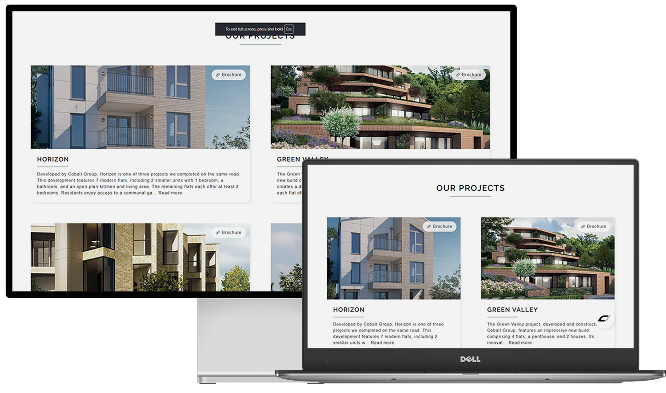
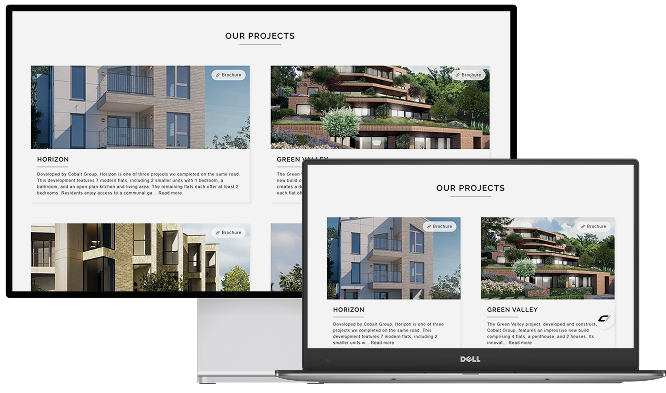
Modals are fully responsive.

diff --git a/app/_context/ModalContext.tsx b/app/_context/ModalContext.tsx
@@ -167,13 +167,13 @@ function ThePondModal() {
         <h3>THE WEBSITES CORE FEATURES:</h3>
         <div className="mt-6 flex flex-col gap-20 text-left">
           {/* First section */}
-          <div className="flex gap-20 items-center justify-center">
+          <div className="flex-col gap-6 flex lg:flex-row lg:gap-20 items-center justify-center">
             <img
               src={firstImg}
               alt="Desktop and laptop view of the apps dashboard."
-              className="w-full max-w-[666px]"
+              className="w-full lg:w-4/5 max-w-[666px]"
             />
-            <div>
+            <div className="w-fit max-w-120 lg:max-w-max lg:w-75 shrink-0">
               <p className="mb-6">
                 When users first enter the app, the first thing they see is the
                 their dashboard, which features their:
@@ -188,13 +188,13 @@ function ThePondModal() {
             </div>
           </div>
           {/* Second section */}
-          <div className="flex flex-row-reverse gap-20 items-center justify-center">
+          <div className="flex-col gap-6 flex lg:flex-row-reverse lg:gap-20 items-center justify-center">
             <img
               src={secondImg}
               alt="Laptop and mobile view of the edit a post, and new habit modals."
-              className="w-full max-w-[600px]"
+              className="w-full lg:w-4/5 max-w-[600px]"
             />
-            <p className="text-right">
+            <p className="text-right w-fit max-w-120 lg:max-w-max lg:min-w-77.5">
               Users can create habits, posts and edit content through various
               modals.
               <br />
@@ -205,13 +205,13 @@ function ThePondModal() {
             </p>
           </div>
           {/* Third section */}
-          <div className="flex gap-20 items-center justify-center">
+          <div className="flex-col gap-6 flex lg:flex-row lg:gap-20 items-center justify-center">
             <img
               src={thirdImg}
               alt="Tablet and mobile view of the explore page displaying users milestone posts."
-              className="w-full max-w-[404px]"
+              className="w-full lg:w-4/5 max-w-[404px]"
             />
-            <div>
+            <div className="w-fit max-w-120 lg:max-w-max lg:min-w-85">
               <p className="mb-6">
                 The explore page is where all of the users posts get shown.
               </p>
@@ -307,13 +307,13 @@ function SmilingSoleReflexologyModal() {
         <h3>THE WEBSITES CORE FEATURES:</h3>
         <div className="mt-6 flex flex-col gap-20 text-left">
           {/* First section */}
-          <div className="flex gap-20 items-center justify-center">
+          <div className="flex-col gap-6 flex lg:flex-row lg:gap-20 items-center justify-center">
             <img
               src={firstImg}
               alt="Desktop and laptop view of the websites employee only dashboard."
-              className="w-full max-w-[666px]"
+              className="w-full lg:w-4/5 max-w-[666px]"
             />
-            <p>
+            <p className="w-fit max-w-120 lg:max-w-max lg:w-75 shrink-0">
               The dashboard is my favourite feature of the website, perhaps
               because it was my first time creating one.
               <br />
@@ -326,13 +326,13 @@ function SmilingSoleReflexologyModal() {
             </p>
           </div>
           {/* Second section */}
-          <div className="flex flex-row-reverse gap-20 items-center justify-center">
+          <div className="flex-col gap-6 flex lg:flex-row-reverse lg:gap-20 items-center justify-center">
             <img
               src={secondImg}
               alt="Laptop and mobile view of the treatment lists."
-              className="w-full max-w-[600px]"
+              className="w-full lg:w-4/5 max-w-[600px]"
             />
-            <p className="text-right">
+            <p className="text-right w-fit max-w-120 lg:max-w-max lg:min-w-77.5">
               One of the core features that the client requested was to feature
               all of the treatments they provide.
               <br />
@@ -342,13 +342,13 @@ function SmilingSoleReflexologyModal() {
             </p>
           </div>
           {/* Third section */}
-          <div className="flex gap-20 items-center justify-center">
+          <div className="flex-col gap-6 flex lg:flex-row lg:gap-20 items-center justify-center">
             <img
               src={thirdImg}
               alt="Tablet and mobile view of the contact form."
-              className="w-full max-w-[404px]"
+              className="w-full lg:w-4/5 max-w-[404px]"
             />
-            <p>
+            <p className="w-fit max-w-120 lg:max-w-max lg:min-w-85">
               The form was built with React Hook Form, and reCAPTCHA to prevent
               spam.
               <br />
@@ -436,13 +436,13 @@ function CobaltDevelopmentModal() {
         <h3>THE WEBSITES CORE FEATURES:</h3>
         <div className="mt-6 flex flex-col gap-20 text-left">
           {/* First section */}
-          <div className="flex gap-20 items-center justify-center">
+          <div className="flex-col gap-6 flex lg:flex-row lg:gap-20 items-center justify-center">
             <img
               src={firstImg}
               alt="Desktop and laptop view of the apps dashboard."
-              className="w-full max-w-[666px]"
+              className="w-full lg:w-4/5 max-w-[666px]"
             />
-            <p>
+            <p className="w-fit max-w-120 lg:max-w-max lg:w-75 shrink-0">
               The main feature of this website is to advertise their development
               projects which are featured on their other website Cobalt
               Construction.
@@ -453,13 +453,13 @@ function CobaltDevelopmentModal() {
             </p>
           </div>
           {/* Second section */}
-          <div className="flex flex-row-reverse gap-20 items-center justify-center">
+          <div className="flex-col gap-6 flex lg:flex-row-reverse lg:gap-20 items-center justify-center">
             <img
               src={secondImg}
               alt="Laptop and mobile view of the edit a post, and new habit modals."
-              className="w-full max-w-[600px]"
+              className="w-full lg:w-4/5 max-w-[600px]"
             />
-            <p className="text-right">
+            <p className="text-right w-fit max-w-120 lg:max-w-max lg:min-w-77.5">
               The section uses a standard HTML form secured by reCAPTCHA. Upon
               form submission, the data is sent to Formspree for the client to
               access.
@@ -542,13 +542,13 @@ function CobaltConstructionModal() {
         <h3>THE WEBSITES CORE FEATURES:</h3>
         <div className="mt-6 flex flex-col gap-20 text-left">
           {/* First section */}
-          <div className="flex gap-20 items-center justify-center">
+          <div className="flex-col gap-6 flex lg:flex-row lg:gap-20 items-center justify-center">
             <img
               src={firstImg}
               alt="Desktop and laptop view of the apps dashboard."
-              className="w-full max-w-[666px]"
+              className="w-full lg:w-4/5 max-w-[666px]"
             />
-            <p>
+            <p className="w-fit max-w-120 lg:max-w-max lg:w-75 shrink-0">
               Projects are displayed by applying the active classes to map pins
               showing where the project was located.
               <br />
@@ -558,13 +558,13 @@ function CobaltConstructionModal() {
             </p>
           </div>
           {/* Second section */}
-          <div className="flex flex-row-reverse gap-20 items-center justify-center">
+          <div className="flex-col gap-6 flex lg:flex-row-reverse lg:gap-20 items-center justify-center">
             <img
               src={secondImg}
               alt="Laptop and mobile view of the edit a post, and new habit modals."
-              className="w-full max-w-[404px]"
+              className="w-full lg:w-4/5 max-w-[600px]"
             />
-            <p className="text-right">
+            <p className="text-right w-fit max-w-120 lg:max-w-max lg:min-w-77.5">
               The projects page features projects listed in
               chronological&nbsp;order.
               <br />
@@ -647,13 +647,13 @@ function CobaltHubModal() {
         <h3>THE WEBSITES CORE FEATURES:</h3>
         <div className="mt-6 flex flex-col gap-20 text-left">
           {/* First section */}
-          <div className="flex gap-20 items-center justify-center">
+          <div className="flex-col gap-6 flex lg:flex-row lg:gap-20 items-center justify-center">
             <img
               src={firstImg}
               alt="Desktop and laptop view of the apps dashboard."
-              className="w-full max-w-[666px]"
+              className="w-full lg:w-4/5 max-w-[666px]"
             />
-            <p>
+            <p className="w-fit max-w-120 lg:max-w-max lg:w-75 shrink-0">
               The lesson from this project isn&apos;t what you&apos;d think. It
               actually comes from handling the hosting platform Hosting. It was
               my first time using subdomains, and having to correctly manage the
@@ -736,13 +736,13 @@ function CobaltAluminiumModal() {
         <h3>THE WEBSITES CORE FEATURES:</h3>
         <div className="mt-6 flex flex-col gap-20 text-left">
           {/* First section */}
-          <div className="flex gap-20 items-center justify-center">
+          <div className="flex-col gap-6 flex lg:flex-row lg:gap-20 items-center justify-center">
             <img
               src={firstImg}
               alt="Desktop and laptop view of the apps dashboard."
-              className="w-full max-w-[666px]"
+              className="w-full lg:w-4/5 max-w-[666px]"
             />
-            <p>
+            <p className="w-fit max-w-120 lg:max-w-max lg:w-75 shrink-0">
               The website contains two rows. One for doors & windows, and the
               other their accessories.
               <br />
@@ -756,27 +756,27 @@ function CobaltAluminiumModal() {
             </p>
           </div>
           {/* Second section */}
-          <div className="flex flex-row-reverse gap-20 items-center justify-center text-right">
+          <div className="flex-col gap-6 flex lg:flex-row-reverse lg:gap-20 items-center justify-center text-right">
             <img
               src={secondImg}
               alt="Tablet and mobile view of the explore page displaying users milestone posts."
-              className="w-full max-w-[404px]"
+              className="w-full lg:w-4/5 max-w-[404px]"
             />
 
-            <p>
+            <p className="text-right w-fit max-w-120 lg:max-w-max lg:min-w-77.5">
               The section uses a standard HTML form secured by reCAPTCHA. Upon
               form submission, the data is sent to Formspree for the client to
               access.
             </p>
           </div>
           {/* Third section */}
-          <div className="flex gap-20 items-center justify-center">
+          <div className="flex-col gap-6 flex lg:flex-row lg:gap-20 items-center justify-center">
             <img
               src={thirdImg}
               alt="Laptop and mobile view of the edit a post, and new habit modals."
-              className="w-full max-w-[600px]"
+              className="w-full lg:w-4/5 max-w-[600px]"
             />
-            <div>
+            <div className="w-fit max-w-120 lg:max-w-max lg:min-w-85">
               <p className="mb-6">
                 The individual product page features the following:
               </p>
